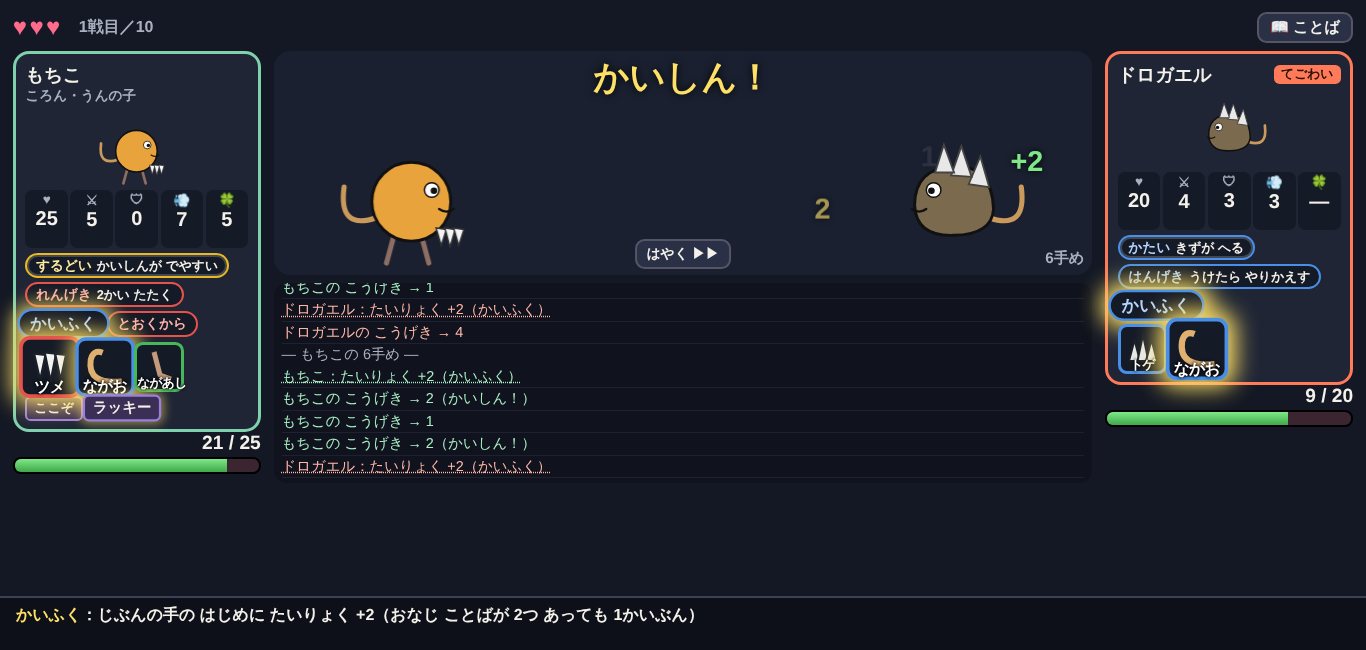
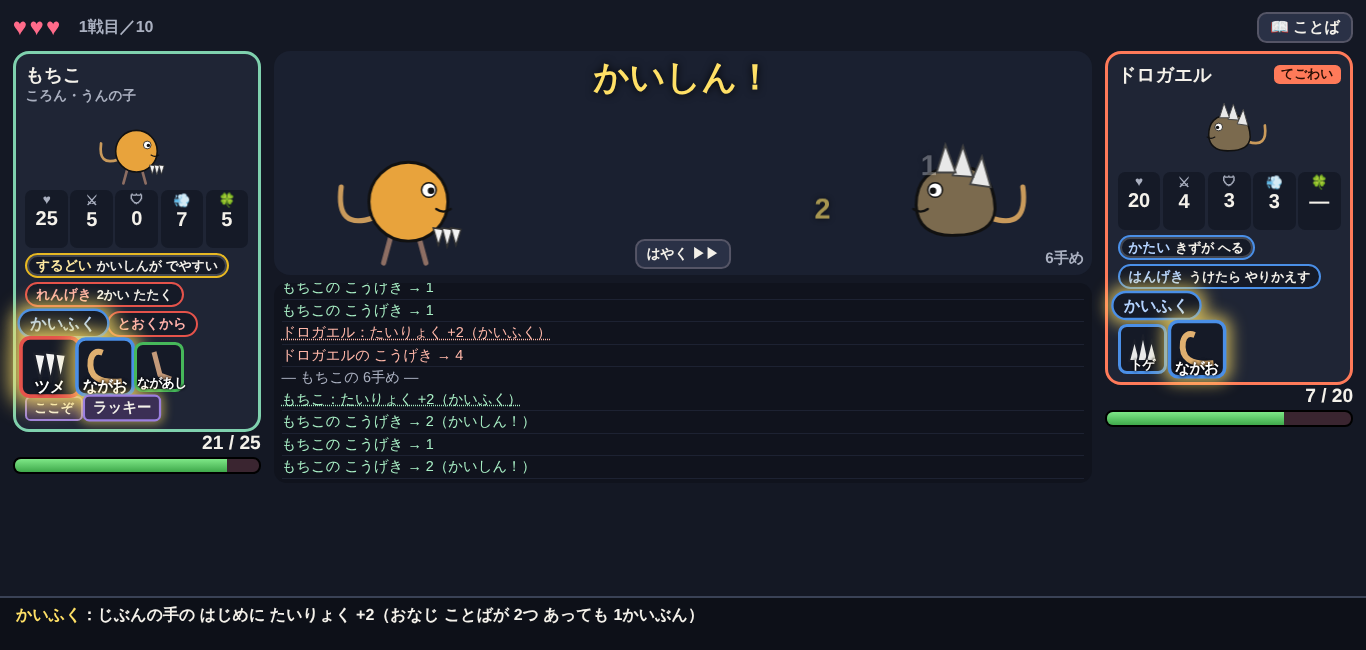
remake：スマホの 戦いの パーツの 札が 3つ目で ちぢまない（flex:none）
Claude-Session: https://claude.ai/code/session_01MmzYoR4bsrM2NAwQ26qNGw

diff --git a/remake/index.html b/remake/index.html
@@ -153,7 +153,7 @@ h2 { margin:.2rem 0 .5rem; font-size:1.3rem; }
   .stage2 { height: 10rem; } .stage2 .mp, .stage2 .ep { height:7rem; }
   .card .pic { height:4.5rem; }
   .logw { height: 9rem; }
-  .bw .card .ptiles .ptile { width:2.8rem; height:2.8rem; } .bw .card .ptiles .ptile svg { width:2.2rem; height:2.2rem; }
+  .bw .card .ptiles .ptile { width:2.8rem; height:2.8rem; flex:none; } .bw .card .ptiles .ptile svg { width:2.2rem; height:2.2rem; }
   .bw > * { min-width:0; } .bw .card .nm { flex-wrap:wrap; } /* ながい 名前＋「てごわい」で カードが ひろがって 横に はみ出さない（「てごわい」は つぎの 行へ） */
   .bw .card .stat b { font-size:1rem; }
   .kotgrid { grid-template-columns: 1fr; }
